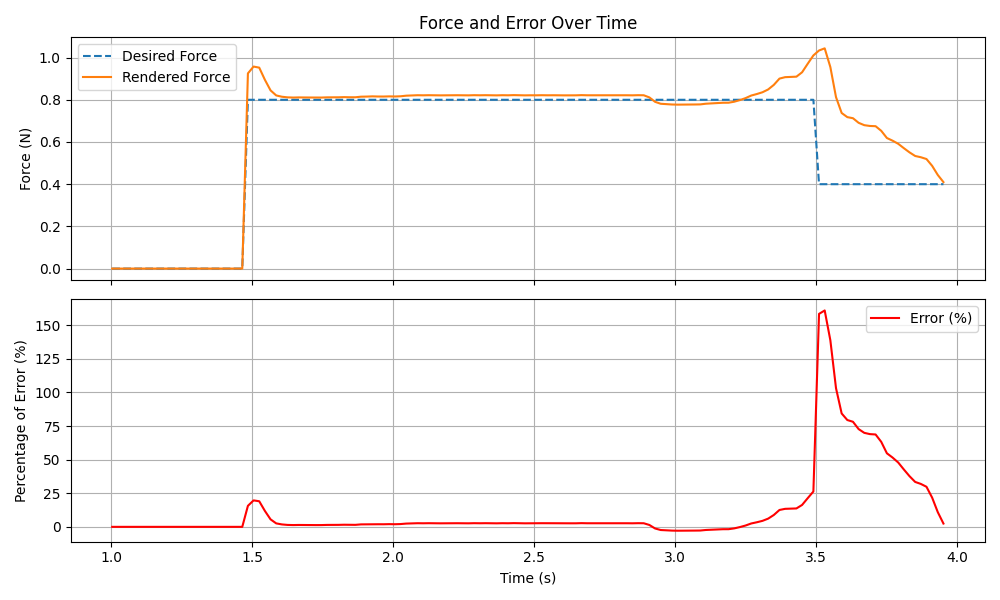
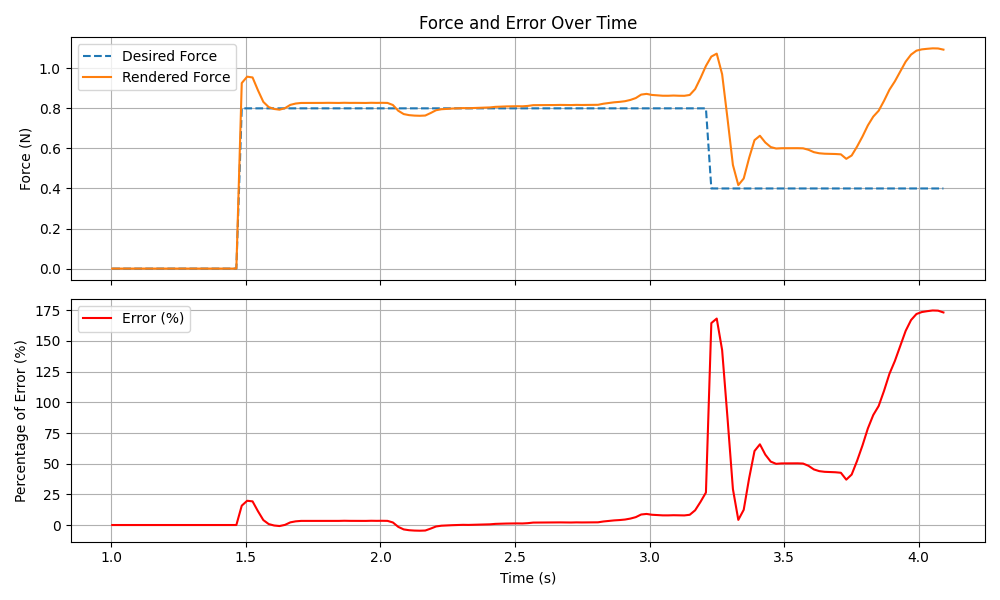
update

diff --git a/friction_render.py b/friction_render.py
@@ -44,7 +44,7 @@ initTime = 1.0  # seconds
 Kp, Ki, Kd = 0.8, 0, 0.05
 alpha = 0.7  # smoothing factor for low-pass filter
 pot_fluc = 0.012
-high_pass_alpha = 0.5
+high_pass_alpha = 0.3
 
 try:
     # while True:
@@ -153,7 +153,7 @@ try:
             pid_scale_factor = 1
             if calibrated:
                 if sliding:
-                    pid_enhance = pid_enhance + 0.2 + np.tanh(abs(positionChange))
+                    pid_enhance = pid_enhance + 0.4 + np.tanh(abs(positionChange))
                 if external_velocity > delta_v:
                     pid_enhance = pid_enhance + 0.2 + np.tanh(abs(external_velocity))
 
